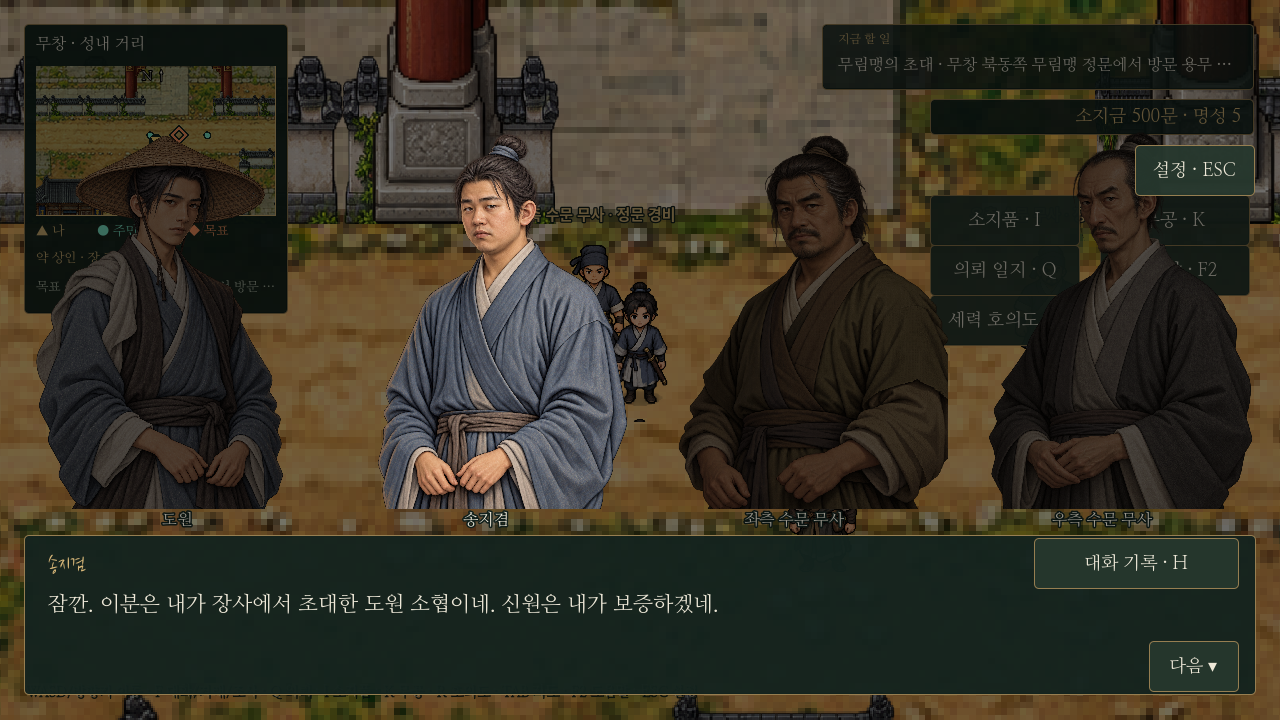
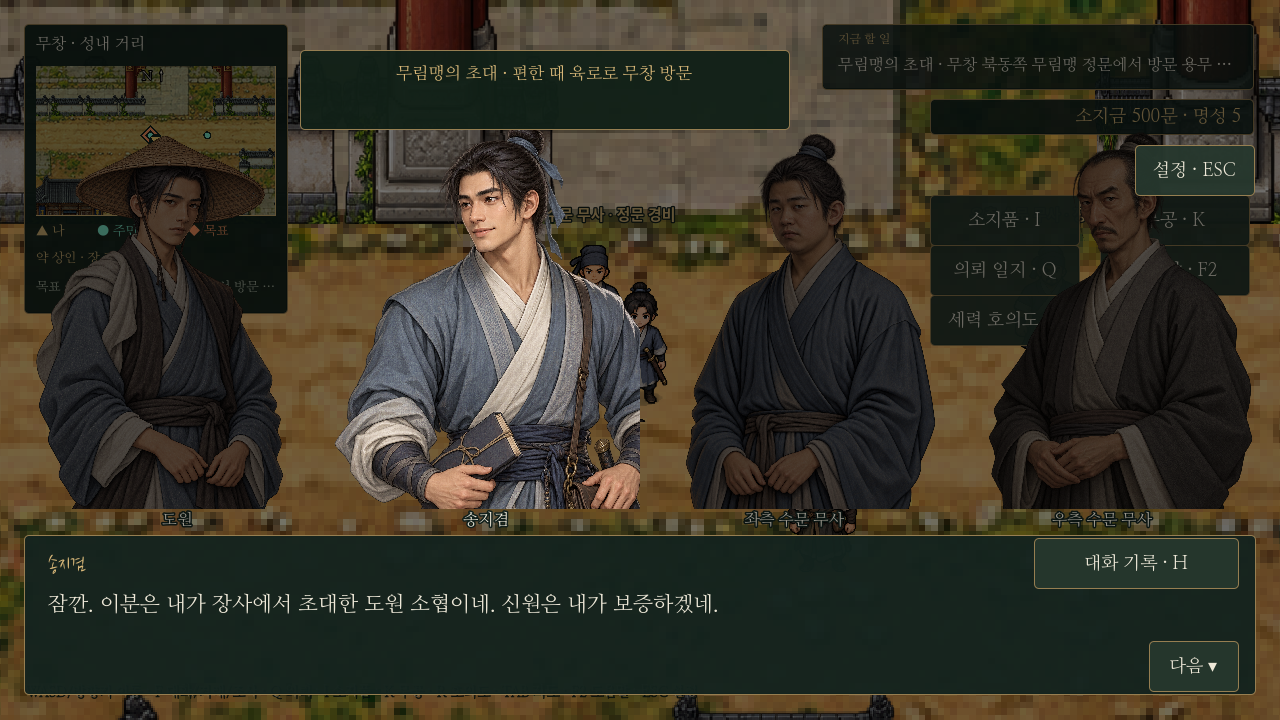
Create dedicated Song Jigyeom portrait and apply across story appearances

Changed region(s): [[0.2188, 0.0611, 0.625, 0.7333], [0.5312, 0.1833, 0.75, 0.7028], [0.125, 0.1833, 0.1562, 0.2139]]

diff --git a/docs/CLI_HANDOFF.md b/docs/CLI_HANDOFF.md
@@ -22,6 +22,7 @@
 - **창 중급 조정:** 사용자는 현재 중급 구간에서도 창 최강을 원한다. 가상 강화 적으로1,080건 비교했고 [검토 결과](reviews/alliance-matchups.md)에 현재 관악창법의 내기 부담과360/18 조정안을 정리했다. 사용자가360/18 조정안을 채택해 적용했다(균형창 내기17). 가상 적은 게임에 등록하지 않았다.
 - **무림맹 중급 무공:** 검·도·창·권·장5종을 전용 데이터와 아이콘에 등록했다. 능력치/경지 학습 제한은 없고 무기·내기 사용 조건은 유지한다. 반석권법 내공 계수를6으로 강화해 균형20 기준 장법과 동일한320이다. 일반 교관 비판매이며 무림맹 곽진석의 선택·확인·전수 대화가 끝나면 한 문만 습득한다. 자동 장착은 하지 않으며 K에서 편성한다. [수치·비교·이미지](martial-arts/alliance-intermediate.md).
 - **전투:** 기본공격/기본방어/삼재검법/빈칸으로 시작하며 **4칸 모두 교체 가능**. 기본방어20%, 검법 사용 후 방어20%. 적도 공통 내기/무공 규칙을 쓰고 플레이어 선택 전에 행동을 확정한다. 예고는 큰 기세만 보여 준다.
+- **송지겸 초상화:** 무당 속가 출신 무림맹 사절의 전용 그림을 새로 적용했다. 청회색 무복·태극 장식·문서 가방/서책·업무 패찰과 온화하고 의욕 있는 표정이다. 공통 인물 등록으로 장사 초대·정문 보증·사칭 사건 감사 모두 같은 그림을 쓴다. 기본18장과 탐험 도트는 유지한다. [설정·그림·실제 화면](characters/song-jigyeom.md).
 - **포졸 초상화:** 기존 토벌 대화의 `bandit_messenger`에 검정·붉은 관아 근무복/관모·捕 표식·포승줄·단봉을 갖춘 `portraits/story/constable-duty.png`를 적용했다. 기본18장과 주인공은 그대로다. [그림·근거·연결](../godot/assets/portraits/story/README.md).
 - **도시 시설 인물 그림:** 상인·장인·교관은 직업마다 장사형/무창형2종 중1종을 선택해 모든 새 도시에 배치한다. `data/service_npc_portraits.json`에6종/현재 도시 배정을 등록했다. 인물 이름·설정은 별도이며 대화/거래 그림을 맞춘다. 현재 두 도시는 그대로, 일반 주민 기본18장도 유지한다. [이미지 목록](characters/service-npc-gallery.md).
 - **표현:** 검·도·창·맨손 전투 모션과 양측 공격·피격 효과음, 걷기 애니메이션, 상황별 BGM, 번들 붓글씨/명조체, 초상화 비율·시선 처리. 기본 NPC 초상화는 기존 공용10장+무창8장=총18장(남10/여8). 갤러리4번/9번 공용 청년 남녀를 평범한 인상으로 교체해 기존 사용처 전체에 적용했다(원본 경로/ID 유지). 일반 마을 NPC는 별도 지시 없이 새 그림을 만들지 않고 재사용한다. `data/basic_npc_portraits.json`이 목록이며 같은 대화의 이미지 중복을 금지한다. 대화 기록 버튼/H키로 현재까지 읽은 줄을 본다. [오브젝트·대화 도구](systems/layered-city-and-conversation.md).

diff --git a/docs/characters/song-jigyeom.md b/docs/characters/song-jigyeom.md
@@ -1,0 +1,22 @@
+# 송지겸 · 무당 속가 출신 무림맹 무사
+
+24세. 무당에서 속가의 가르침을 받은 무림맹 외무 무사다. 맹의 체면뿐 아니라 그 이름을 믿고 살아가는 민초들의 사정도 중요하게 여기며, 연락과 보고·현장 확인을 부지런히 맡는다. 장사에서 도원을 초대하고 정문에서 신원을 보증하며, 사칭 사건 해결 뒤에는 맹을 대표해 감사를 전한다. 상시 마을 주민으로 남기지 않는다.
+
+## 전용 일러스트
+
+![송지겸](../../godot/assets/portraits/alliance/song-jigyeom.png)
+
+- 청회색 무복과 흰 속깃, 남색 띠, 단정한 상투와 좁은 머리끈으로 무당 속가제자다운 절제된 인상을 살렸다. 도관의 정식 도사 복식이나 화려한 갑옷은 입히지 않았다.
+- 허리의 작은 태극 장식은 배운 곳의 흔적이며, 서책·문서 가방·동제 업무 패찰은 무림맹 사절의 역할을 드러낸다. 칼은 뽑지 않고 검집에 둔다.
+- 약간 햇볕을 탄 얼굴, 부드럽고 주의 깊은 눈빛과 옅은 미소로 민초에게도 다가가기 쉬운 성실한 청년을 표현했다. 복장은 해지지 않았으나 길을 다닌 주름과 생활감이 있다.
+- 이미지 생성 도구로 제작한1024×1536 RGBA 원본을 그대로 저장했다. 픽셀 후처리 없이 공통 대화 셰이더에서 얼굴 크기·눈높이·좌우 시선을 맞춘다.
+
+## 실제 적용
+
+`dialogue_portraits.gd`의 `song_jigyeom` 한 곳에서 전용 파일을 지정한다. 초대/보증을 맡는 `alliance_story.gd`와 감사 사건의 `impostor_quest.gd`가 기본 청년 이미지로 덮어쓰던 등록을 제거했다. 기존 저장의 인물ID와 대사는 그대로이므로 다시 불러와도 전용 그림을 사용한다.
+
+이 그림은 송지겸 전용이며 **기본 마을 NPC18장에는 추가하지 않는다**. 일반 청년 남성 그림과 주인공·다른 인물 그림은 유지한다. 전투 수치·퀘스트 보상·이야기 분기를 바꾸지 않았다. 탐험 도트는 기존 것을 사용한다.
+
+[장사 초대 화면](../../godot/screenshots/song-portrait-invitation.png) · [정문 보증 화면](../../godot/screenshots/song-portrait-guarantee.png) · [무림맹 감사 화면](../../godot/screenshots/song-portrait-thanks.png)
+
+`tests/dialogue.gd`로 전용 이미지 등록·프레이밍·시선·저장 호환을, `tests/basic_npc_portraits.gd`로 기본18장 유지를 확인한다. 기존 `alliance_story.gd`, `impostor_quest.gd` 검사로 실제 등장 흐름도 확인한다. `capture_song_portrait.gd`는 토벌/전수 완료 상태를 촬영 도구 안에서 구성해 세 장면을 재현한다.

diff --git a/godot/assets/portraits/alliance/README.md b/godot/assets/portraits/alliance/README.md
@@ -1,7 +1,11 @@
-# 무림맹 총관·교관 초상화
+# 무림맹 인물 초상화
 
 허문규51세(총관)와 곽진석46세(교관)의 전용 대화 그림이다. 이미지 생성 도구로 기존 주인공의 화풍·허리 위 구도를 기준으로 제작하고, 대화창에서 사각 배경이 생기지 않도록 투명 배경 버전을 적용했다. 원본 PNG는 픽셀 후처리 없이 보관하며 표시 비율과 방향은 `data/portrait_framing.json`과 공통 대화 셰이더가 처리한다.
 
 허문규는 긴 얼굴·가는 눈·반백 수염·회색 도포·장부, 곽진석은 사각 얼굴·휜 코·거친 수염 자국·청회색 수련복·손목 감개로 구별한다. 두 사람은 세력의 주요 인물이며 기본 마을 초상화18장에는 포함하지 않는다. 정문 경비2명은 기존 기본 이미지의 청년/중년 남성을 서로 다르게 재사용한다. 전투 수치는 부여하지 않았다.
 
-현재 인물 대화와 배치만 구현했으며 신원 보증 연출과 무공 선택/전수는 후속 작업이다. [인물 설정](../../../../docs/characters/alliance-headquarters.md).
+현재 인물 대화·배치와 초대/신원 보증·무공 선택/전수까지 연결했다. [인물 설정](../../../../docs/characters/alliance-headquarters.md).
+
+## 송지겸
+
+`song-jigyeom.png`는 무당 속가제자 출신의 젊은 무림맹 외무 무사 전용 그림이다. 청회색 실용 무복·작은 태극 장식·서책/문서 가방·업무 패찰과 온화한 미소로 배운 곳과 현재 역할을 표현했다. 장사 초대·정문 보증·사칭 사건 감사에서 공통 사용하며 기본18장에는 포함하지 않는다. 투명 PNG 원본을 보관하고 프레이밍/좌우 방향은 공통 셰이더에서 맞춘다. [설정과 화면](../../../../docs/characters/song-jigyeom.md).

diff --git a/docs/README.md b/docs/README.md
@@ -14,6 +14,7 @@
 | 무창 장인의 이름값 | [진행·원고·검증](quests/wuchang-artisan.md) | `scripts/artisan_quest.gd`, `data/wuchang_artisan_quest.json` | `artisan_quest.gd` |
 | 무창 약초꾼 의뢰 | [진행·원고·난이도](quests/wuchang-herbalist.md) | `scripts/herbalist_quest.gd`, `data/wuchang_herbalist_quest.json` | `herbalist_quest.gd` |
 | 도시 간 육로 | [산길·출입·지도·저장](cities/changsha-wuchang-road.md) | `scripts/overland_travel.gd`, `mountain_road_map.gd`, `assets/maps/changsha-wuchang/layout.json` | `overland_travel.gd`, `capture_overland.gd` |
+| 송지겸 전용 초상화 | [인물·그림·세 장면](characters/song-jigyeom.md) | `scripts/dialogue_portraits.gd`, `data/portrait_framing.json` | `dialogue.gd`, `basic_npc_portraits.gd`, `capture_song_portrait.gd` |
 | 무림맹 초대·중급 전수 메인 | [실제 진행·대사·검증](story/alliance-main-story.md) | `scripts/alliance_story.gd`, `data/alliance_story.json`, `alliance_visit.gd` | `alliance_story.gd`, `bandit_story.gd`, `alliance_visit.gd` |
 | 무림맹 경비·총관·교관 | [인물](characters/alliance-headquarters.md), [출입·진행 구분](story/alliance-visit-foundation.md) | `data/alliance_characters.json`, `scripts/alliance_visit.gd` | `alliance_visit.gd`, `capture_alliance_visit.gd` |
 | 무창 민간 주민 | [8인 설정·대사·그림](characters/wuchang-civilians.md) | `data/wuchang_residents.json`, `scripts/exploration.gd`, `dialogue_portraits.gd` | `wuchang_residents.gd`, `capture_wuchang_residents.gd` |

diff --git a/docs/quests/wuchang-impostor.md b/docs/quests/wuchang-impostor.md
@@ -30,7 +30,7 @@ flowchart TD
 - 오덕수: 기존 하역장 위치 유지. 다른 의뢰를 진행 중이어도 별도 상태를 덮어쓰지 않는다. 이번 증언을 들은 뒤에는 다른 의뢰의 대화도 이어서 진행할 수 있다.
 - 문서: 증언 뒤 이어지는 조사 대사로 확인한다. 새 소지품 아이템으로 만들지는 않는다. 마지막 조사 대사 전에는 단계가 바뀌지 않는다.
 - 마응칠(30대 후반의 떠돌이 칼잡이): 공식 회답 대화 완료 후에만 나루 창고 뒤에 등장한다. 기본 `male_middle` 그림과 기존 도 장착 전투 그림을 재사용한다. 희망 좌표는 지도 원본 기준(390,1180)이며 공통 전신/충돌 검사가 안전 위치로 조정한다.
-- 송지겸: 보수 수령 후 관아 앞에서만 잠시 등장한다. 기본 `male_young` 그림을 재사용하며 완료 후 상시 주민으로 남기지 않는다. 기존 무당 속가제자/무림맹 외무 무사 설정을 유지한다. 앞선 초대와 보증 진행까지 구현한 것으로 간주하지 않는다.
+- 송지겸: 보수 수령 후 관아 앞에서만 잠시 등장한다. [송지겸 전용 그림](../characters/song-jigyeom.md)을 사용하며 완료 후 상시 주민으로 남기지 않는다. 기존 무당 속가제자/무림맹 외무 무사 설정을 유지한다. 앞선 초대와 보증 진행까지 구현한 것으로 간주하지 않는다.
 
 ## 전투와 편의
 

diff --git a/docs/characters/alliance-headquarters.md b/docs/characters/alliance-headquarters.md
@@ -4,6 +4,7 @@
 
 | 인물 | 나이 | 역할 | 외형과 성격 |
 | --- | ---: | --- | --- |
+| 송지겸 |24| 무림맹 외무 무사·무당 속가제자 | 청회색 무복·태극 장식·문서 가방과 서책. 민초의 사정을 살피며 맹의 연락과 보고를 성실히 맡는 온화한 청년. [전용 그림](song-jigyeom.md). |
 | 허문규 |51| 총무당 총관 | 긴 얼굴, 도드라진 광대와 가는 눈, 짧은 반백 수염. 옅은 회색 도포와 장부. 엄정하고 과묵하나 출신보다 실제 행적을 공정하게 본다. |
 | 곽진석 |46| 연무장 교관 | 넓은 사각 얼굴, 휜 콧등, 짙고 고르지 않은 눈썹과 굵은 손마디. 짙은 청회색 수련복. 직설적이지만 배우는 사람에게는 끈기가 있다. |
 | 좌측 수문 무사 |28| 정문 왼편 경비 | 청회색 근무복, 작은 두건과 허리의 검집. 방문 목적과 신원을 먼저 묻는다. 개인 이름은 아직 정하지 않았다. |
